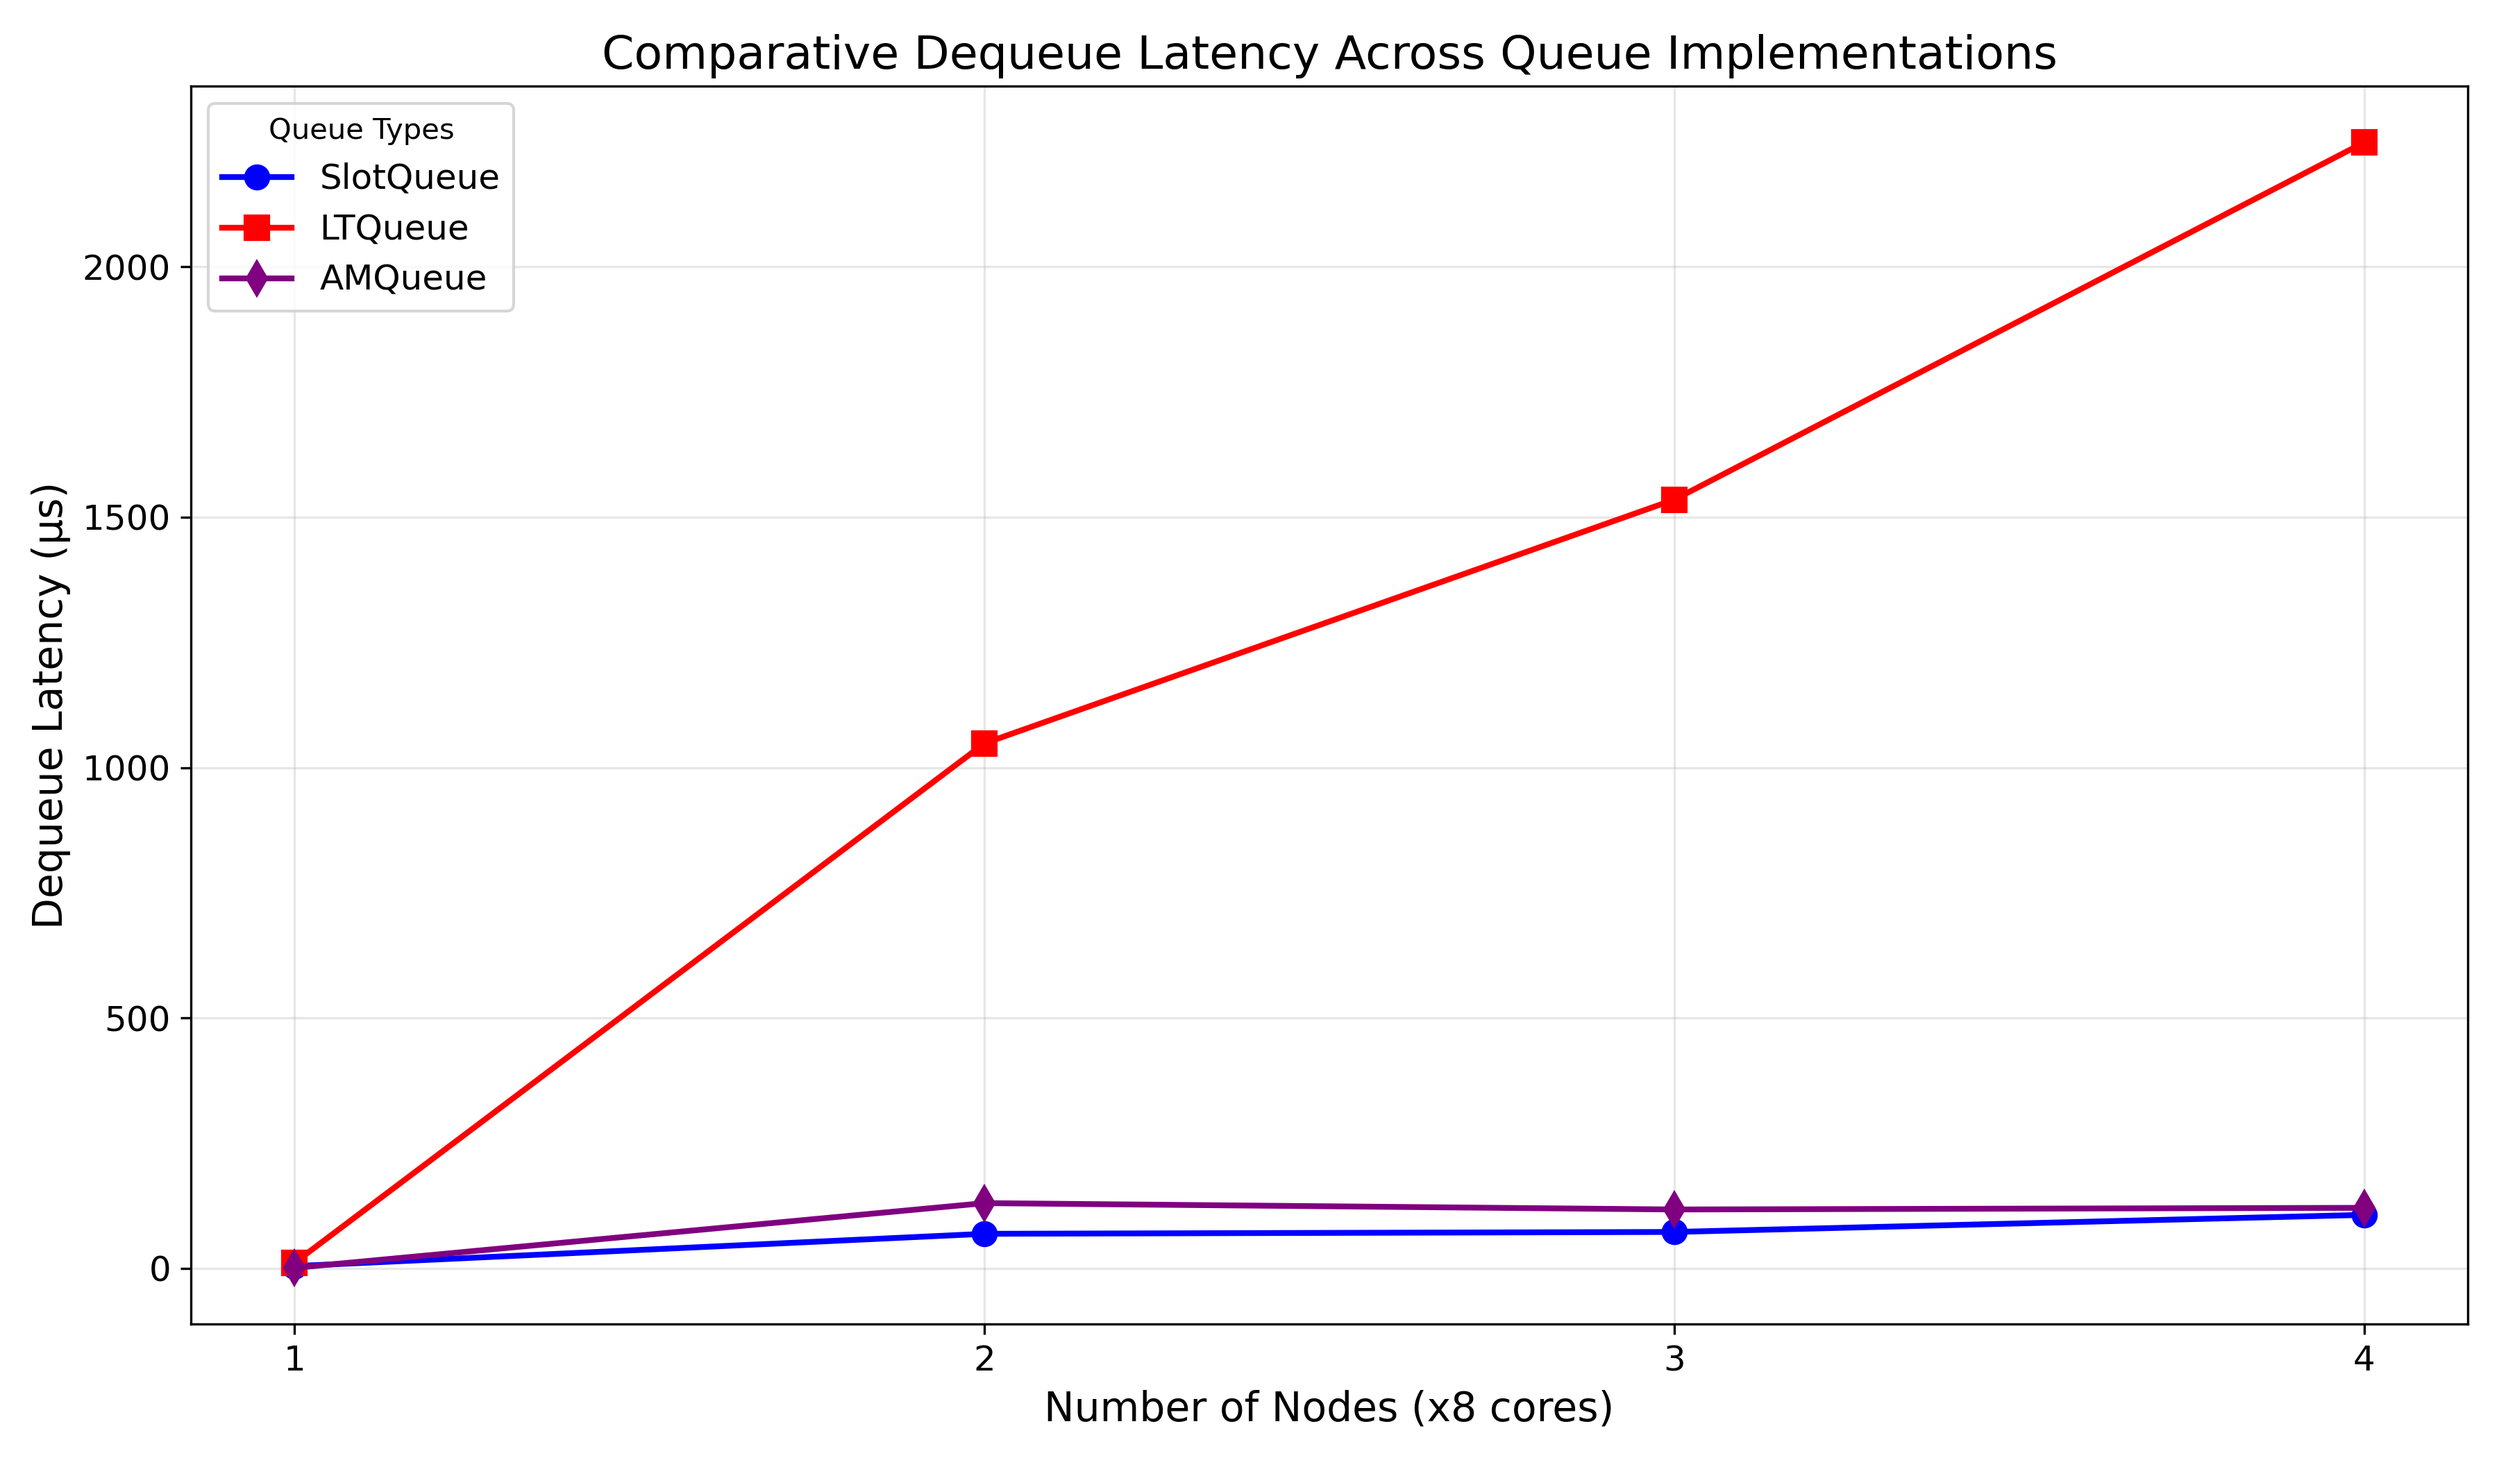
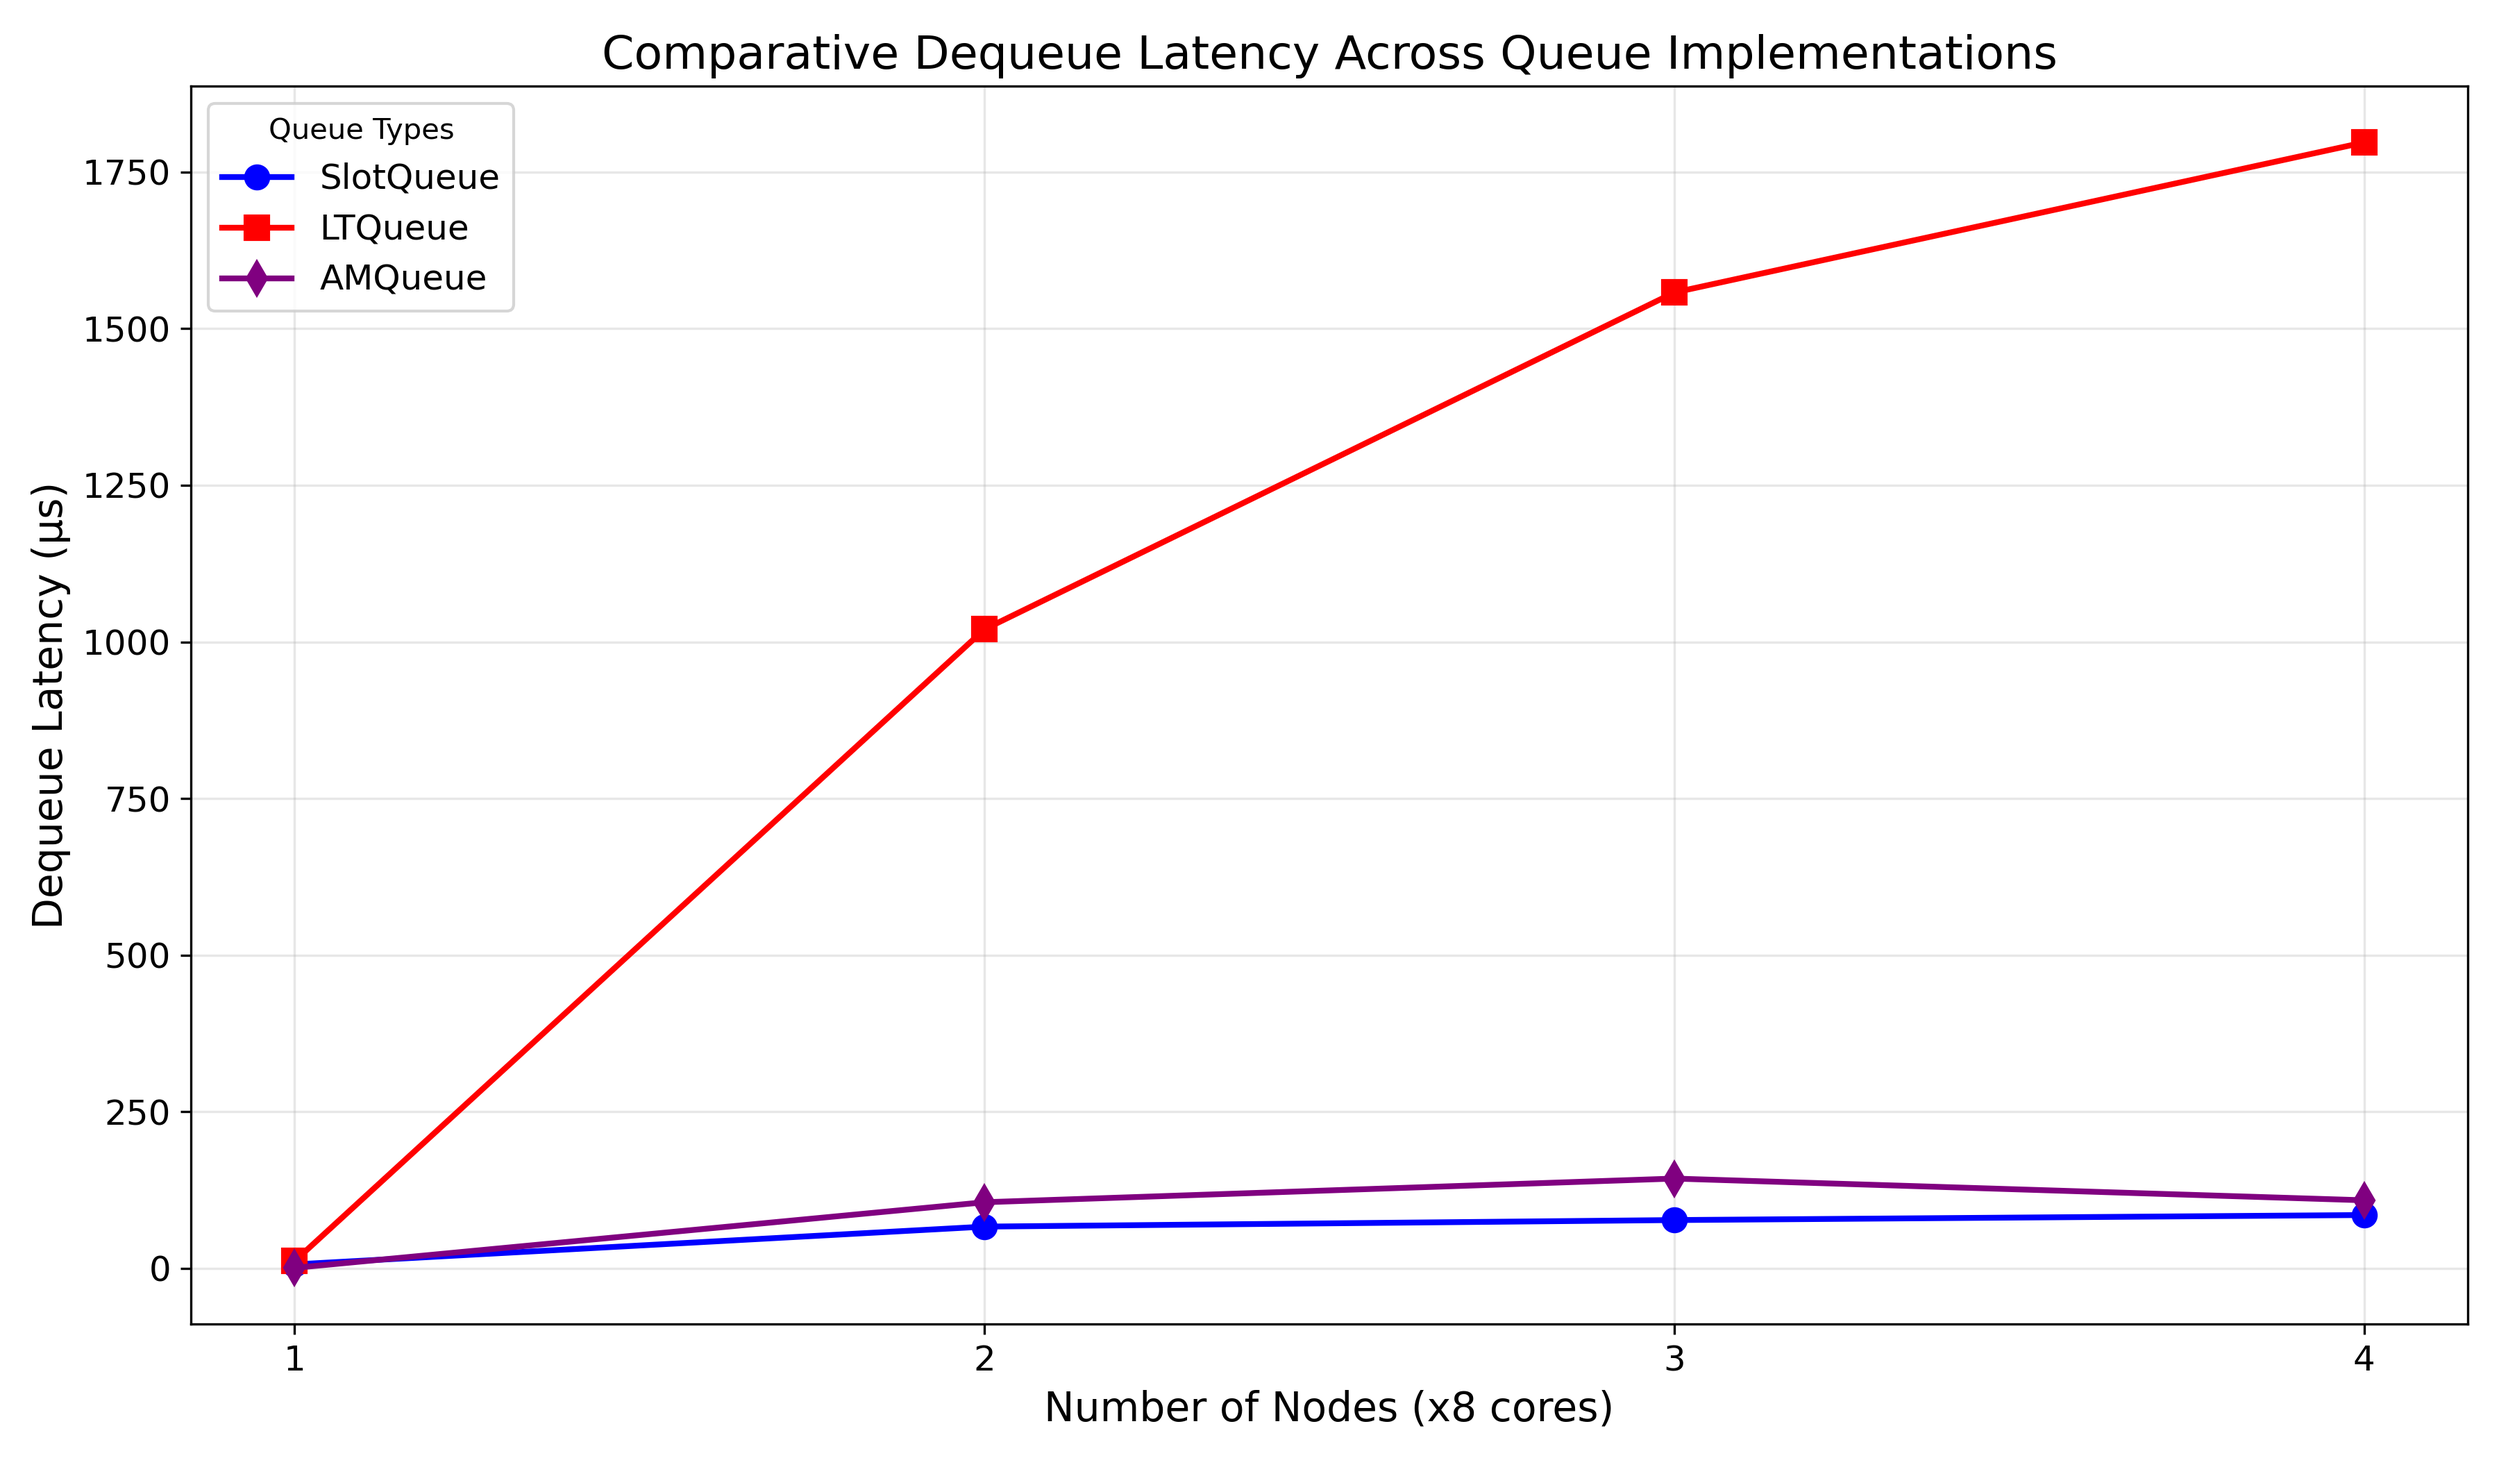
bench: add viz

diff --git a/benches/microbenchmarks/single-one-queue/non-rdma-cluster/by-nodes.py b/benches/microbenchmarks/single-one-queue/non-rdma-cluster/by-nodes.py
@@ -1,38 +1,34 @@
 import matplotlib.pyplot as plt
 import os
 
-
 output_dir = "non-rdma-cluster/all/by-nodes"
 os.makedirs(output_dir, exist_ok=True)
 
-
 nodes = [1, 2, 3, 4]
-
 
 queue_data = {
     "SlotQueue": {
-        "dequeue_throughput": [2.28686, 0.145148, 0.13778, 0.0937151],
-        "dequeue_latency": [4.3728, 68.895, 72.5794, 106.706],
-        "enqueue_throughput": [4.12516, 0.408411, 0.334599, 0.208068],
-        "enqueue_latency": [16.969, 367.277, 687.389, 1489.9],
-        "total_throughput": [4.57602, 0.291023, 0.277214, 0.189586],
+        "dequeue_throughput": [1.57149, 0.149915, 0.129626, 0.117402],
+        "dequeue_latency": [6.3634, 66.7044, 77.1452, 85.1772],
+        "enqueue_throughput": [4.66741, 0.414245, 0.270233, 0.234497],
+        "enqueue_latency": [14.9976, 362.104, 851.116, 1321.98],
+        "total_throughput": [3.14455, 0.30058, 0.260807, 0.237505],
     },
     "LTQueue": {
-        "dequeue_throughput": [0.896732, 0.00953929, 0.00651412, 0.00442806],
-        "dequeue_latency": [11.1516, 1048.3, 1535.13, 2248.52],
-        "enqueue_throughput": [4.33988, 0.354412, 0.283816, 0.22764],
-        "enqueue_latency": [16.1295, 423.237, 810.385, 1298.31],
-        "total_throughput": [1.79436, 0.0191263, 0.0131064, 0.00898238],
+        "dequeue_throughput": [0.862575, 0.00980247, 0.0064194, 0.00556359],
+        "dequeue_latency": [11.5932, 1020.15, 1557.78, 1797.4],
+        "enqueue_throughput": [5.17603, 0.419166, 0.254151, 0.207099],
+        "enqueue_latency": [13.5239, 357.854, 904.972, 1496.87],
+        "total_throughput": [1.72601, 0.0196539, 0.0129158, 0.0112552],
     },
     "AMQueue": {
-        "dequeue_throughput": [11.0004, 0.076829, 0.0851223, 0.079559],
-        "dequeue_latency": [0.909055, 130.159, 117.478, 120.7575],
-        "enqueue_throughput": [12.6034, 0.14456, 0.117427, 0.0801075],
-        "enqueue_latency": [5.55405, 1037.63, 1958.67, 3000.0],
-        "total_throughput": [20.3126, 0.143949, 0.155033, 0.186766],
+        "dequeue_throughput": [11.4077, 0.0946985, 0.0697346, 0.0919903],
+        "dequeue_latency": [0.8766, 105.598, 143.401, 108.707],
+        "enqueue_throughput": [14.0963, 0.17869, 0.0954709, 0.109493],
+        "enqueue_latency": [4.96583, 839.444, 2409.11, 2831.23],
+        "total_throughput": [20.7573, 0.177045, 0.127443, 0.162925],
     },
 }
-
 
 metrics = [
     "dequeue_throughput",
@@ -42,7 +38,6 @@ metrics = [
     "total_throughput",
 ]
 
-
 metric_labels = {
     "dequeue_throughput": ("Dequeue Throughput", "10^5 ops/s"),
     "dequeue_latency": ("Dequeue Latency", "μs"),
@@ -51,13 +46,11 @@ metric_labels = {
     "total_throughput": ("Total Throughput", "10^5 ops/s"),
 }
 
-
 queue_styles = {
     "SlotQueue": {"color": "blue", "marker": "o"},
     "LTQueue": {"color": "red", "marker": "s"},
     "AMQueue": {"color": "purple", "marker": "d"},
 }
-
 
 for metric in metrics:
     plt.figure(figsize=(12, 7))
